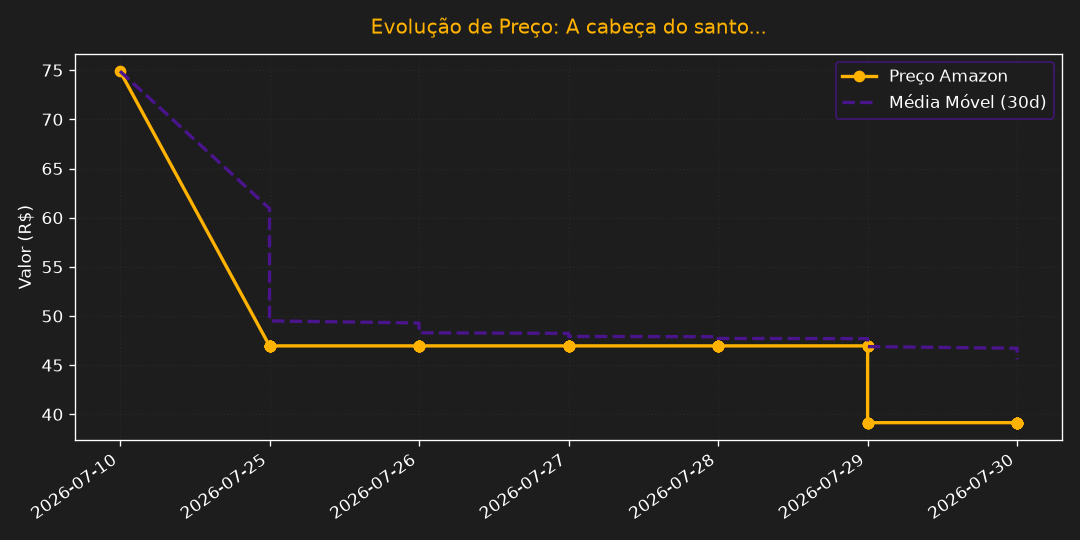
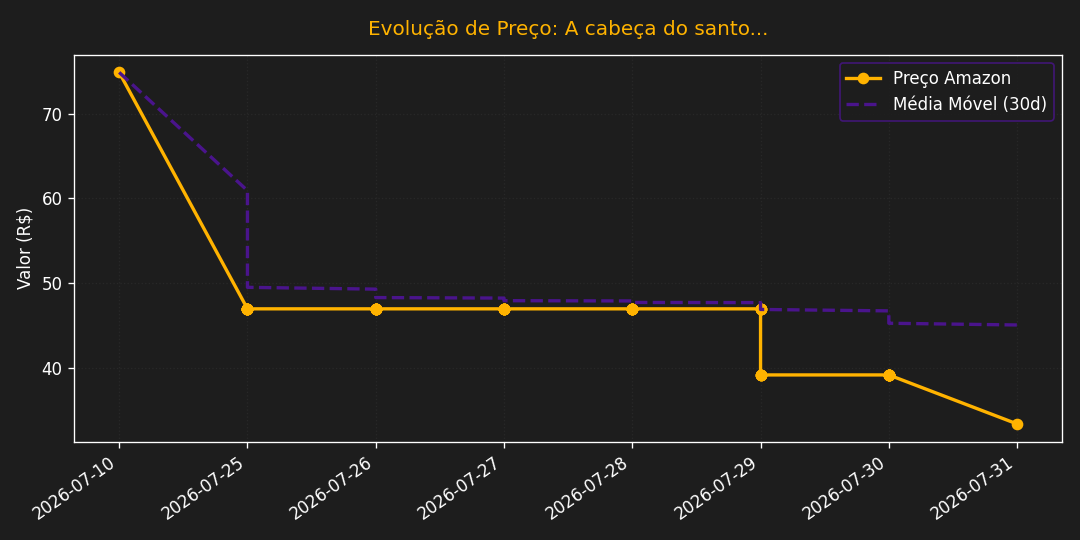
🤖 Bot: Atualização do histórico, portal de ofertas e assets [skip ci]

diff --git a/index.html b/index.html
@@ -20,7 +20,7 @@
     <meta property="twitter:description" content="Curadoria matemática de livros de fantasia em promoção.">
     
     <script type="application/ld+json">
-    {"@context": "https://schema.org", "@type": "ItemList", "name": "Promoções Ativas de Fantasia", "itemListElement": [{"@type": "ListItem", "position": 1, "item": {"@type": "Product", "name": "Box Ficção Completa de Edgar Allan Poe", "url": "https://link.amazon/B0bxqDHXJ", "offers": {"@type": "Offer", "priceCurrency": "BRL", "price": 180.86, "availability": "https://schema.org/InStock"}}}, {"@type": "ListItem", "position": 2, "item": {"@type": "Product", "name": "O sacrifício", "url": "https://link.amazon/B05C027gt", "offers": {"@type": "Offer", "priceCurrency": "BRL", "price": 63.78, "availability": "https://schema.org/InStock"}}}, {"@type": "ListItem", "position": 3, "item": {"@type": "Product", "name": "A cabeça do santo", "url": "https://link.amazon/B07BZ9Phr", "offers": {"@type": "Offer", "priceCurrency": "BRL", "price": 39.15, "availability": "https://schema.org/InStock"}}}, {"@type": "ListItem", "position": 4, "item": {"@type": "Product", "name": "A Biblioteca da Meia-Noite", "url": "https://link.amazon/B0ahQKnZG", "offers": {"@type": "Offer", "priceCurrency": "BRL", "price": 41.47, "availability": "https://schema.org/InStock"}}}, {"@type": "ListItem", "position": 5, "item": {"@type": "Product", "name": "O Hobbit + pôster", "url": "https://link.amazon/B05Sr7Nr7", "offers": {"@type": "Offer", "priceCurrency": "BRL", "price": 44.94, "availability": "https://schema.org/InStock"}}}, {"@type": "ListItem", "position": 6, "item": {"@type": "Product", "name": "A Ascensão do Dragão", "url": "https://link.amazon/B04OFbHZF", "offers": {"@type": "Offer", "priceCurrency": "BRL", "price": 132.9, "availability": "https://schema.org/InStock"}}}, {"@type": "ListItem", "position": 7, "item": {"@type": "Product", "name": "O mundo de gelo e fogo", "url": "https://link.amazon/B0bOFsgQ9", "offers": {"@type": "Offer", "priceCurrency": "BRL", "price": 135.28, "availability": "https://schema.org/InStock"}}}, {"@type": "ListItem", "position": 8, "item": {"@type": "Product", "name": "Box Trilogia O Senhor dos Anéis", "url": "https://link.amazon/B0cOS4omj", "offers": {"@type": "Offer", "priceCurrency": "BRL", "price": 199.4, "availability": "https://schema.org/InStock"}}}, {"@type": "ListItem", "position": 9, "item": {"@type": "Product", "name": "O cavaleiro dos Sete Reinos", "url": "https://link.amazon/B0e2PzSTe", "offers": {"@type": "Offer", "priceCurrency": "BRL", "price": 78.99, "availability": "https://schema.org/InStock"}}}, {"@type": "ListItem", "position": 10, "item": {"@type": "Product", "name": "Fogo & Sangue – Volume 1", "url": "https://link.amazon/B01CIGwaZ", "offers": {"@type": "Offer", "priceCurrency": "BRL", "price": 82.94, "availability": "https://schema.org/InStock"}}}, {"@type": "ListItem", "position": 11, "item": {"@type": "Product", "name": "Box Torre negra", "url": "https://link.amazon/B0czAwuOp", "offers": {"@type": "Offer", "priceCurrency": "BRL", "price": 412.84, "availability": "https://schema.org/InStock"}}}, {"@type": "ListItem", "position": 12, "item": {"@type": "Product", "name": "Os fragmentos de Bovadium", "url": "https://link.amazon/B0fKkmi1R", "offers": {"@type": "Offer", "priceCurrency": "BRL", "price": 39.8, "availability": "https://schema.org/InStock"}}}, {"@type": "ListItem", "position": 13, "item": {"@type": "Product", "name": "Mistborn: O Império Final: Livro 1 de Mistborn", "url": "https://link.amazon/B0bJ5jTSU", "offers": {"@type": "Offer", "priceCurrency": "BRL", "price": 69.73, "availability": "https://schema.org/InStock"}}}, {"@type": "ListItem", "position": 14, "item": {"@type": "Product", "name": "A guerra da papoula", "url": "https://link.amazon/B075ASsRo", "offers": {"@type": "Offer", "priceCurrency": "BRL", "price": 54.14, "availability": "https://schema.org/InStock"}}}, {"@type": "ListItem", "position": 15, "item": {"@type": "Product", "name": "A república do dragão: 2", "url": "https://link.amazon/B05s4V4tS", "offers": {"@type": "Offer", "priceCurrency": "BRL", "price": 57.9, "availability": "https://schema.org/InStock"}}}, {"@type": "ListItem", "position": 16, "item": {"@type": "Product", "name": "A deusa em chamas: 3", "url": "https://link.amazon/B00tEF0jN", "offers": {"@type": "Offer", "priceCurrency": "BRL", "price": 59.75, "availability": "https://schema.org/InStock"}}}, {"@type": "ListItem", "position": 17, "item": {"@type": "Product", "name": "O caminho dos reis", "url": "https://link.amazon/B0g8PJdyP", "offers": {"@type": "Offer", "priceCurrency": "BRL", "price": 130.08, "availability": "https://schema.org/InStock"}}}, {"@type": "ListItem", "position": 18, "item": {"@type": "Product", "name": "Palavras de Radiância", "url": "https://link.amazon/B09bDCyVl", "offers": {"@type": "Offer", "priceCurrency": "BRL", "price": 152.85, "availability": "https://schema.org/InStock"}}}, {"@type": "ListItem", "position": 19, "item": {"@type": "Product", "name": "Sacramentadora", "url": "https://link.amazon/B0cBFS3o1", "offers": {"@type": "Offer", "priceCurrency": "BRL", "price": 152.85, "availability": "https://schema.org/InStock"}}}, {"@type": "ListItem", "position": 20, "item": {"@type": "Product", "name": "Ritmo da Guerra", "url": "https://link.amazon/B0f81O992", "offers": {"@type": "Offer", "priceCurrency": "BRL", "price": 147.13, "availability": "https://schema.org/InStock"}}}, {"@type": "ListItem", "position": 21, "item": {"@type": "Product", "name": "O alquimista", "url": "https://link.amazon/B00bB1BuS", "offers": {"@type": "Offer", "priceCurrency": "BRL", "price": 42.94, "availability": "https://schema.org/InStock"}}}, {"@type": "ListItem", "position": 22, "item": {"@type": "Product", "name": "O nome do vento", "url": "https://link.amazon/B0h9jyezR", "offers": {"@type": "Offer", "priceCurrency": "BRL", "price": 53.9, "availability": "https://schema.org/InStock"}}}, {"@type": "ListItem", "position": 23, "item": {"@type": "Product", "name": "A música do silêncio", "url": "https://link.amazon/B0eRR4Vm5", "offers": {"@type": "Offer", "priceCurrency": "BRL", "price": 39.8, "availability": "https://schema.org/InStock"}}}, {"@type": "ListItem", "position": 24, "item": {"@type": "Product", "name": "O temor do sábio", "url": "https://link.amazon/B0aqYDLFU", "offers": {"@type": "Offer", "priceCurrency": "BRL", "price": 78.99, "availability": "https://schema.org/InStock"}}}]}
+    {"@context": "https://schema.org", "@type": "ItemList", "name": "Promoções Ativas de Fantasia", "itemListElement": [{"@type": "ListItem", "position": 1, "item": {"@type": "Product", "name": "Box Ficção Completa de Edgar Allan Poe", "url": "https://link.amazon/B0bxqDHXJ", "offers": {"@type": "Offer", "priceCurrency": "BRL", "price": 180.86, "availability": "https://schema.org/InStock"}}}, {"@type": "ListItem", "position": 2, "item": {"@type": "Product", "name": "O sacrifício", "url": "https://link.amazon/B05C027gt", "offers": {"@type": "Offer", "priceCurrency": "BRL", "price": 63.78, "availability": "https://schema.org/InStock"}}}, {"@type": "ListItem", "position": 3, "item": {"@type": "Product", "name": "A cabeça do santo", "url": "https://link.amazon/B07BZ9Phr", "offers": {"@type": "Offer", "priceCurrency": "BRL", "price": 33.36, "availability": "https://schema.org/InStock"}}}, {"@type": "ListItem", "position": 4, "item": {"@type": "Product", "name": "A Biblioteca da Meia-Noite", "url": "https://link.amazon/B0ahQKnZG", "offers": {"@type": "Offer", "priceCurrency": "BRL", "price": 41.47, "availability": "https://schema.org/InStock"}}}, {"@type": "ListItem", "position": 5, "item": {"@type": "Product", "name": "O Hobbit + pôster", "url": "https://link.amazon/B05Sr7Nr7", "offers": {"@type": "Offer", "priceCurrency": "BRL", "price": 44.94, "availability": "https://schema.org/InStock"}}}, {"@type": "ListItem", "position": 6, "item": {"@type": "Product", "name": "A Ascensão do Dragão", "url": "https://link.amazon/B04OFbHZF", "offers": {"@type": "Offer", "priceCurrency": "BRL", "price": 132.9, "availability": "https://schema.org/InStock"}}}, {"@type": "ListItem", "position": 7, "item": {"@type": "Product", "name": "O mundo de gelo e fogo", "url": "https://link.amazon/B0bOFsgQ9", "offers": {"@type": "Offer", "priceCurrency": "BRL", "price": 135.28, "availability": "https://schema.org/InStock"}}}, {"@type": "ListItem", "position": 8, "item": {"@type": "Product", "name": "Box Trilogia O Senhor dos Anéis", "url": "https://link.amazon/B0cOS4omj", "offers": {"@type": "Offer", "priceCurrency": "BRL", "price": 199.4, "availability": "https://schema.org/InStock"}}}, {"@type": "ListItem", "position": 9, "item": {"@type": "Product", "name": "O cavaleiro dos Sete Reinos", "url": "https://link.amazon/B0e2PzSTe", "offers": {"@type": "Offer", "priceCurrency": "BRL", "price": 78.99, "availability": "https://schema.org/InStock"}}}, {"@type": "ListItem", "position": 10, "item": {"@type": "Product", "name": "Fogo & Sangue – Volume 1", "url": "https://link.amazon/B01CIGwaZ", "offers": {"@type": "Offer", "priceCurrency": "BRL", "price": 82.94, "availability": "https://schema.org/InStock"}}}, {"@type": "ListItem", "position": 11, "item": {"@type": "Product", "name": "Box Torre negra", "url": "https://link.amazon/B0czAwuOp", "offers": {"@type": "Offer", "priceCurrency": "BRL", "price": 412.84, "availability": "https://schema.org/InStock"}}}, {"@type": "ListItem", "position": 12, "item": {"@type": "Product", "name": "Os fragmentos de Bovadium", "url": "https://link.amazon/B0fKkmi1R", "offers": {"@type": "Offer", "priceCurrency": "BRL", "price": 39.8, "availability": "https://schema.org/InStock"}}}, {"@type": "ListItem", "position": 13, "item": {"@type": "Product", "name": "Mistborn: O Império Final: Livro 1 de Mistborn", "url": "https://link.amazon/B0bJ5jTSU", "offers": {"@type": "Offer", "priceCurrency": "BRL", "price": 69.73, "availability": "https://schema.org/InStock"}}}, {"@type": "ListItem", "position": 14, "item": {"@type": "Product", "name": "A guerra da papoula", "url": "https://link.amazon/B075ASsRo", "offers": {"@type": "Offer", "priceCurrency": "BRL", "price": 54.14, "availability": "https://schema.org/InStock"}}}, {"@type": "ListItem", "position": 15, "item": {"@type": "Product", "name": "A república do dragão: 2", "url": "https://link.amazon/B05s4V4tS", "offers": {"@type": "Offer", "priceCurrency": "BRL", "price": 57.9, "availability": "https://schema.org/InStock"}}}, {"@type": "ListItem", "position": 16, "item": {"@type": "Product", "name": "A deusa em chamas: 3", "url": "https://link.amazon/B00tEF0jN", "offers": {"@type": "Offer", "priceCurrency": "BRL", "price": 59.75, "availability": "https://schema.org/InStock"}}}, {"@type": "ListItem", "position": 17, "item": {"@type": "Product", "name": "O caminho dos reis", "url": "https://link.amazon/B0g8PJdyP", "offers": {"@type": "Offer", "priceCurrency": "BRL", "price": 130.08, "availability": "https://schema.org/InStock"}}}, {"@type": "ListItem", "position": 18, "item": {"@type": "Product", "name": "Palavras de Radiância", "url": "https://link.amazon/B09bDCyVl", "offers": {"@type": "Offer", "priceCurrency": "BRL", "price": 152.85, "availability": "https://schema.org/InStock"}}}, {"@type": "ListItem", "position": 19, "item": {"@type": "Product", "name": "Sacramentadora", "url": "https://link.amazon/B0cBFS3o1", "offers": {"@type": "Offer", "priceCurrency": "BRL", "price": 152.85, "availability": "https://schema.org/InStock"}}}, {"@type": "ListItem", "position": 20, "item": {"@type": "Product", "name": "Ritmo da Guerra", "url": "https://link.amazon/B0f81O992", "offers": {"@type": "Offer", "priceCurrency": "BRL", "price": 147.13, "availability": "https://schema.org/InStock"}}}, {"@type": "ListItem", "position": 21, "item": {"@type": "Product", "name": "O alquimista", "url": "https://link.amazon/B00bB1BuS", "offers": {"@type": "Offer", "priceCurrency": "BRL", "price": 42.94, "availability": "https://schema.org/InStock"}}}, {"@type": "ListItem", "position": 22, "item": {"@type": "Product", "name": "O nome do vento", "url": "https://link.amazon/B0h9jyezR", "offers": {"@type": "Offer", "priceCurrency": "BRL", "price": 53.9, "availability": "https://schema.org/InStock"}}}, {"@type": "ListItem", "position": 23, "item": {"@type": "Product", "name": "A música do silêncio", "url": "https://link.amazon/B0eRR4Vm5", "offers": {"@type": "Offer", "priceCurrency": "BRL", "price": 39.8, "availability": "https://schema.org/InStock"}}}, {"@type": "ListItem", "position": 24, "item": {"@type": "Product", "name": "O temor do sábio", "url": "https://link.amazon/B0aqYDLFU", "offers": {"@type": "Offer", "priceCurrency": "BRL", "price": 78.99, "availability": "https://schema.org/InStock"}}}]}
     </script>
     
     <link rel="preconnect" href="https://fonts.googleapis.com">
@@ -119,7 +119,7 @@
                             </div>
                             <div class="flex justify-between items-center text-sm">
                                 <span class="text-gray-500">Média (30 dias)</span>
-                                <span class="font-medium text-gray-300">R$ 188,14</span>
+                                <span class="font-medium text-gray-300">R$ 188,01</span>
                             </div>
                             <div class="flex justify-between items-center text-sm">
                                 <span class="text-gray-500">Menor Histórico</span>
@@ -150,7 +150,7 @@
                             </div>
                             <div class="flex justify-between items-center text-sm">
                                 <span class="text-gray-500">Média (30 dias)</span>
-                                <span class="font-medium text-gray-300">R$ 63,07</span>
+                                <span class="font-medium text-gray-300">R$ 63,08</span>
                             </div>
                             <div class="flex justify-between items-center text-sm">
                                 <span class="text-gray-500">Menor Histórico</span>
@@ -177,15 +177,15 @@
                         <div class="space-y-3 mb-6">
                             <div class="flex justify-between items-end border-b border-gray-700/50 pb-3">
                                 <span class="text-sm text-gray-400">Preço Agora</span>
-                                <span class="text-2xl font-bold text-bardo-success">R$ 39,15</span>
+                                <span class="text-2xl font-bold text-bardo-success">R$ 33,36</span>
                             </div>
                             <div class="flex justify-between items-center text-sm">
                                 <span class="text-gray-500">Média (30 dias)</span>
-                                <span class="font-medium text-gray-300">R$ 45,26</span>
+                                <span class="font-medium text-gray-300">R$ 45,05</span>
                             </div>
                             <div class="flex justify-between items-center text-sm">
                                 <span class="text-gray-500">Menor Histórico</span>
-                                <span class="font-medium text-gray-300">R$ 39,15</span>
+                                <span class="font-medium text-gray-300">R$ 33,36</span>
                             </div>
                         </div>
                     </div>
@@ -212,7 +212,7 @@
                             </div>
                             <div class="flex justify-between items-center text-sm">
                                 <span class="text-gray-500">Média (30 dias)</span>
-                                <span class="font-medium text-gray-300">R$ 43,15</span>
+                                <span class="font-medium text-gray-300">R$ 43,12</span>
                             </div>
                             <div class="flex justify-between items-center text-sm">
                                 <span class="text-gray-500">Menor Histórico</span>
@@ -243,7 +243,7 @@
                             </div>
                             <div class="flex justify-between items-center text-sm">
                                 <span class="text-gray-500">Média (30 dias)</span>
-                                <span class="font-medium text-gray-300">R$ 45,47</span>
+                                <span class="font-medium text-gray-300">R$ 45,46</span>
                             </div>
                             <div class="flex justify-between items-center text-sm">
                                 <span class="text-gray-500">Menor Histórico</span>
@@ -274,7 +274,7 @@
                             </div>
                             <div class="flex justify-between items-center text-sm">
                                 <span class="text-gray-500">Média (30 dias)</span>
-                                <span class="font-medium text-gray-300">R$ 139,48</span>
+                                <span class="font-medium text-gray-300">R$ 139,37</span>
                             </div>
                             <div class="flex justify-between items-center text-sm">
                                 <span class="text-gray-500">Menor Histórico</span>
@@ -305,7 +305,7 @@
                             </div>
                             <div class="flex justify-between items-center text-sm">
                                 <span class="text-gray-500">Média (30 dias)</span>
-                                <span class="font-medium text-gray-300">R$ 132,18</span>
+                                <span class="font-medium text-gray-300">R$ 132,23</span>
                             </div>
                             <div class="flex justify-between items-center text-sm">
                                 <span class="text-gray-500">Menor Histórico</span>
@@ -336,7 +336,7 @@
                             </div>
                             <div class="flex justify-between items-center text-sm">
                                 <span class="text-gray-500">Média (30 dias)</span>
-                                <span class="font-medium text-gray-300">R$ 209,44</span>
+                                <span class="font-medium text-gray-300">R$ 209,27</span>
                             </div>
                             <div class="flex justify-between items-center text-sm">
                                 <span class="text-gray-500">Menor Histórico</span>
@@ -367,7 +367,7 @@
                             </div>
                             <div class="flex justify-between items-center text-sm">
                                 <span class="text-gray-500">Média (30 dias)</span>
-                                <span class="font-medium text-gray-300">R$ 79,76</span>
+                                <span class="font-medium text-gray-300">R$ 79,75</span>
                             </div>
                             <div class="flex justify-between items-center text-sm">
                                 <span class="text-gray-500">Menor Histórico</span>
@@ -398,7 +398,7 @@
                             </div>
                             <div class="flex justify-between items-center text-sm">
                                 <span class="text-gray-500">Média (30 dias)</span>
-                                <span class="font-medium text-gray-300">R$ 78,90</span>
+                                <span class="font-medium text-gray-300">R$ 78,98</span>
                             </div>
                             <div class="flex justify-between items-center text-sm">
                                 <span class="text-gray-500">Menor Histórico</span>
@@ -429,7 +429,7 @@
                             </div>
                             <div class="flex justify-between items-center text-sm">
                                 <span class="text-gray-500">Média (30 dias)</span>
-                                <span class="font-medium text-gray-300">R$ 389,83</span>
+                                <span class="font-medium text-gray-300">R$ 390,30</span>
                             </div>
                             <div class="flex justify-between items-center text-sm">
                                 <span class="text-gray-500">Menor Histórico</span>
@@ -460,7 +460,7 @@
                             </div>
                             <div class="flex justify-between items-center text-sm">
                                 <span class="text-gray-500">Média (30 dias)</span>
-                                <span class="font-medium text-gray-300">R$ 40,28</span>
+                                <span class="font-medium text-gray-300">R$ 40,27</span>
                             </div>
                             <div class="flex justify-between items-center text-sm">
                                 <span class="text-gray-500">Menor Histórico</span>
@@ -491,7 +491,7 @@
                             </div>
                             <div class="flex justify-between items-center text-sm">
                                 <span class="text-gray-500">Média (30 dias)</span>
-                                <span class="font-medium text-gray-300">R$ 71,94</span>
+                                <span class="font-medium text-gray-300">R$ 71,89</span>
                             </div>
                             <div class="flex justify-between items-center text-sm">
                                 <span class="text-gray-500">Menor Histórico</span>
@@ -615,7 +615,7 @@
                             </div>
                             <div class="flex justify-between items-center text-sm">
                                 <span class="text-gray-500">Média (30 dias)</span>
-                                <span class="font-medium text-gray-300">R$ 123,74</span>
+                                <span class="font-medium text-gray-300">R$ 123,91</span>
                             </div>
                             <div class="flex justify-between items-center text-sm">
                                 <span class="text-gray-500">Menor Histórico</span>
@@ -646,7 +646,7 @@
                             </div>
                             <div class="flex justify-between items-center text-sm">
                                 <span class="text-gray-500">Média (30 dias)</span>
-                                <span class="font-medium text-gray-300">R$ 157,83</span>
+                                <span class="font-medium text-gray-300">R$ 157,69</span>
                             </div>
                             <div class="flex justify-between items-center text-sm">
                                 <span class="text-gray-500">Menor Histórico</span>
@@ -708,7 +708,7 @@
                             </div>
                             <div class="flex justify-between items-center text-sm">
                                 <span class="text-gray-500">Média (30 dias)</span>
-                                <span class="font-medium text-gray-300">R$ 147,44</span>
+                                <span class="font-medium text-gray-300">R$ 147,43</span>
                             </div>
                             <div class="flex justify-between items-center text-sm">
                                 <span class="text-gray-500">Menor Histórico</span>
@@ -770,7 +770,7 @@
                             </div>
                             <div class="flex justify-between items-center text-sm">
                                 <span class="text-gray-500">Média (30 dias)</span>
-                                <span class="font-medium text-gray-300">R$ 54,37</span>
+                                <span class="font-medium text-gray-300">R$ 54,35</span>
                             </div>
                             <div class="flex justify-between items-center text-sm">
                                 <span class="text-gray-500">Menor Histórico</span>
@@ -801,7 +801,7 @@
                             </div>
                             <div class="flex justify-between items-center text-sm">
                                 <span class="text-gray-500">Média (30 dias)</span>
-                                <span class="font-medium text-gray-300">R$ 41,57</span>
+                                <span class="font-medium text-gray-300">R$ 41,52</span>
                             </div>
                             <div class="flex justify-between items-center text-sm">
                                 <span class="text-gray-500">Menor Histórico</span>
@@ -869,7 +869,7 @@
                 &copy; 2026 Bardo das Promoções. 
             </div>
             <div class="text-xs text-gray-600 bg-gray-900/50 px-3 py-1.5 rounded-md border border-gray-800">
-                Última atualização do sistema: 30/07/2026 23:18 (BRT)
+                Última atualização do sistema: 31/07/2026 03:48 (BRT)
             </div>
         </div>
     </footer>
